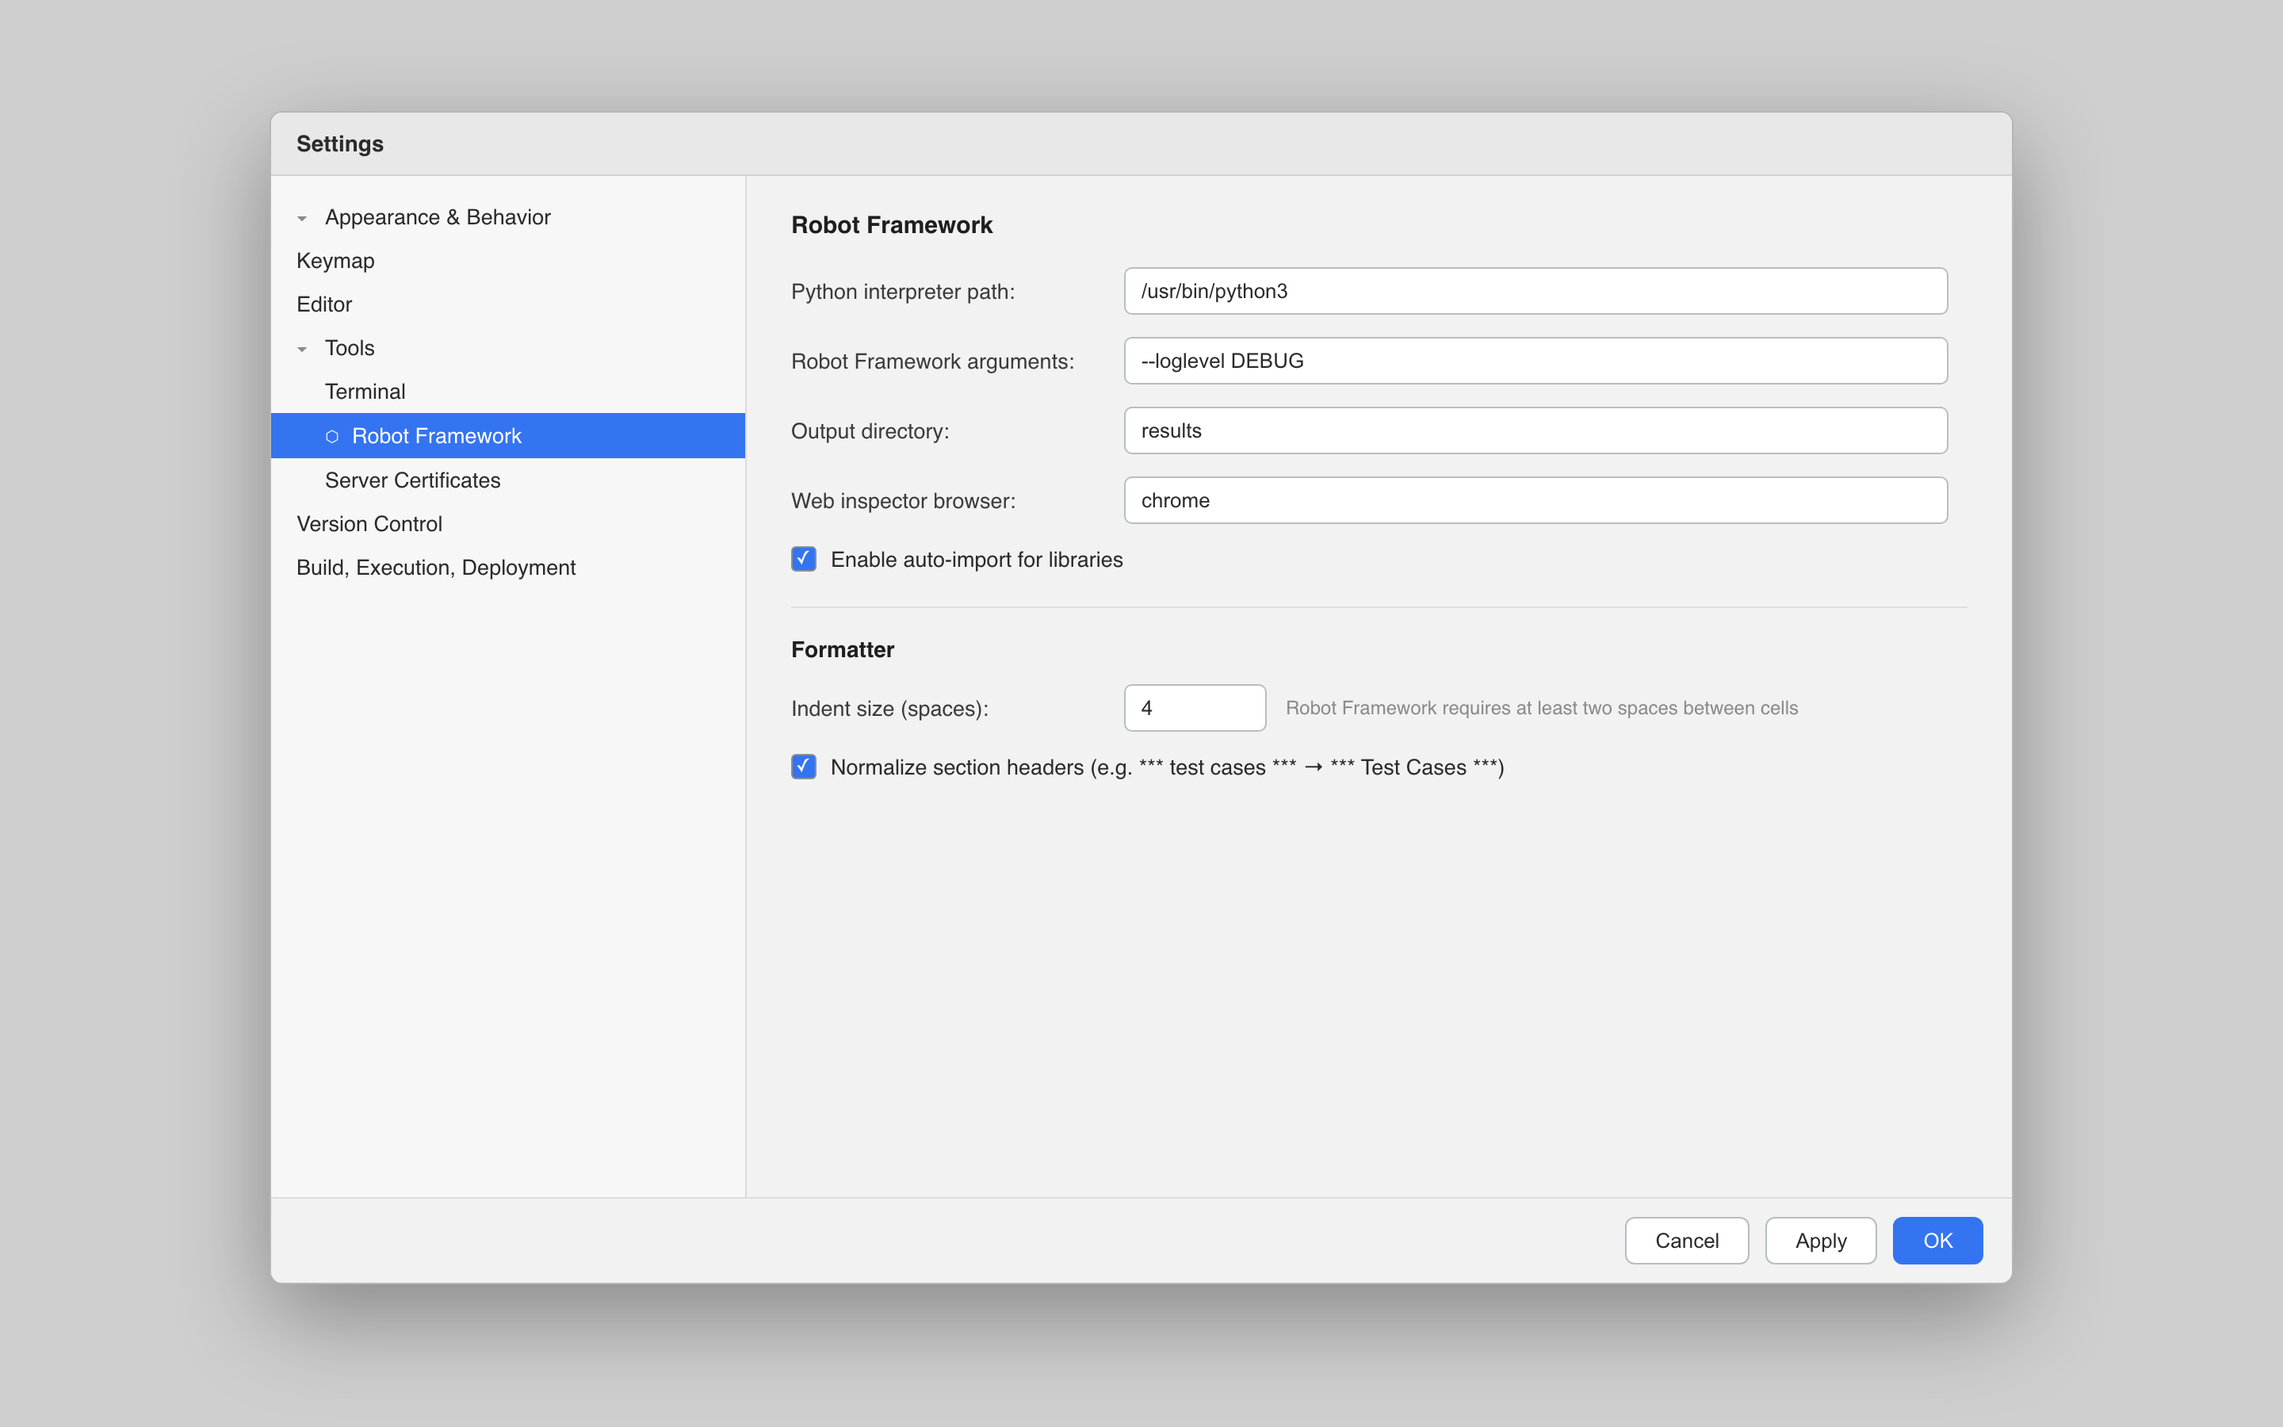
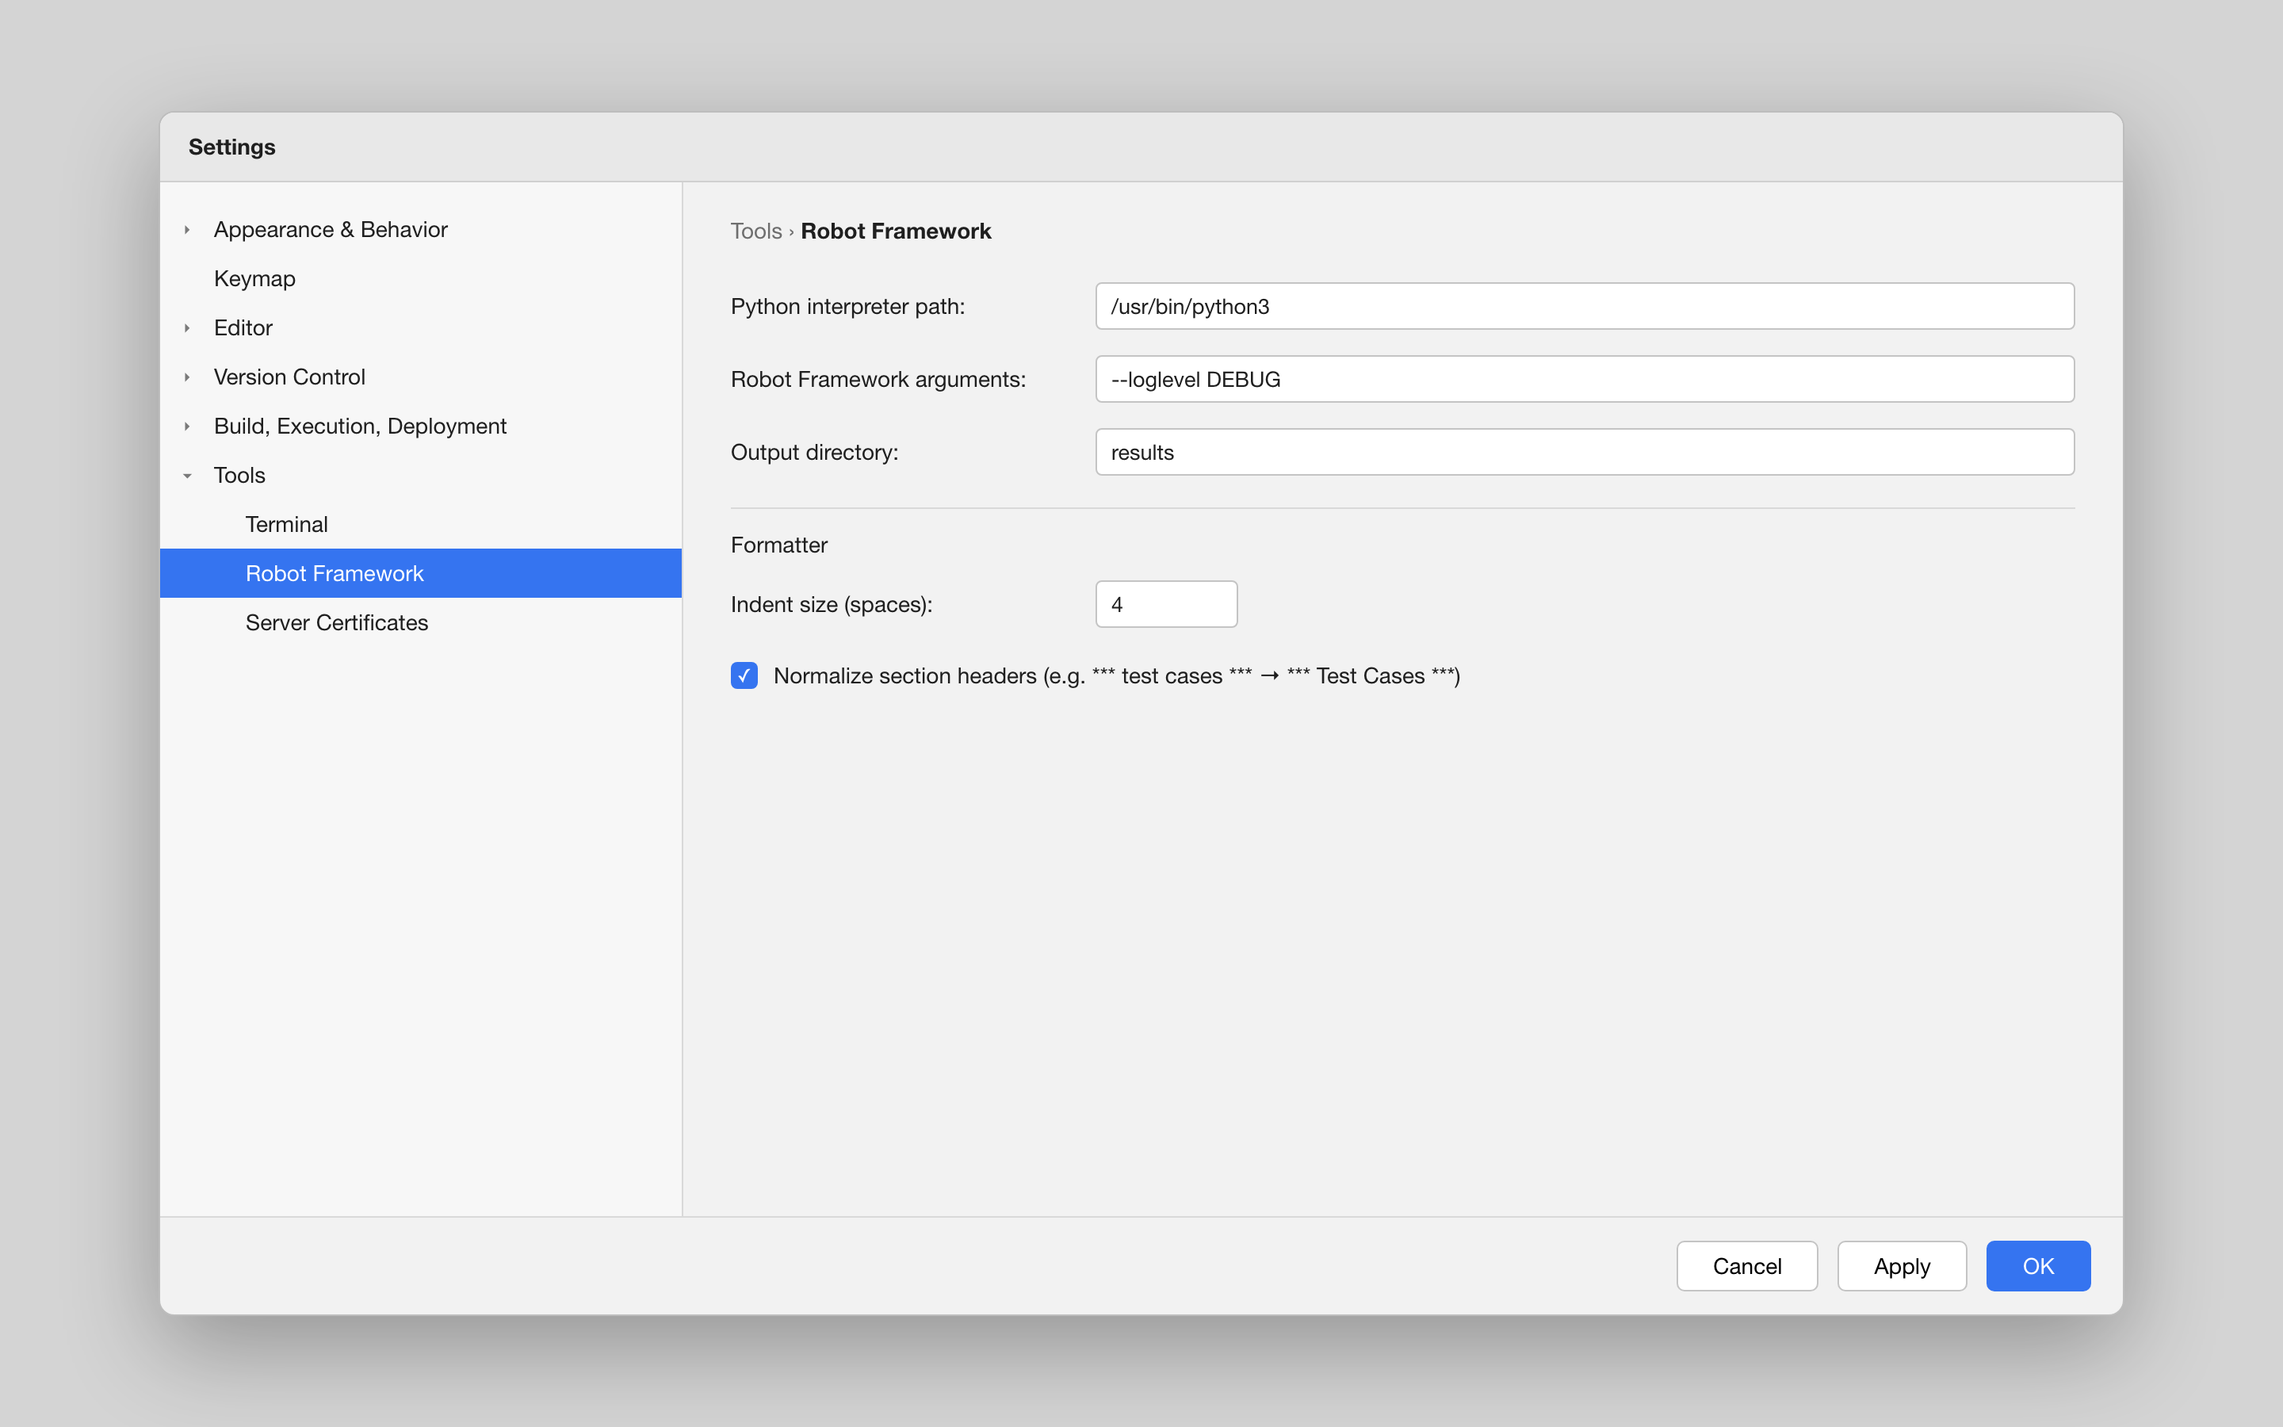
docs: re-render Marketplace screenshots for the current plugin
All six shots still carried the old "Robot Framework Professional" name in
the window title, and 04-settings.png showed the removed "Web inspector
browser" and "Enable auto-import for libraries" options.

- render.py now produces all six screenshots. 03 (formatter before/after)
  and 04 (settings) were hand-made before and had no source; they are now
  rendered from messy_suite.robot / messy_suite.formatted.robot and from a
  form that mirrors RobotSettingsConfigurable field for field.
- Window titles use the plugin's current name, "Robot Framework".
- SampleProjectTest asserts RobotFormatter turns messy_suite.robot into
  exactly messy_suite.formatted.robot, so screenshot 03 stays honest.
- Screenshot docs and MARKETPLACE_LISTING.md drop the old name.

Claude-Session: https://claude.ai/code/session_01CmS6C249PPokReMYfSYbuZ

diff --git a/docs/screenshots/src/render.py b/docs/screenshots/src/render.py
@@ -8,7 +8,7 @@ the inspection texts are copied verbatim from `analysis/RobotCodeAnalyzer`, so
 what the pictures show is what the plugin actually does.
 
 Usage:  python3 docs/screenshots/src/render.py
-Output: docs/screenshots/NN-name.png (2880x1800)
+Output: docs/screenshots/01..06-*.png (2880x1800)
 """
 
 import html
@@ -264,6 +264,144 @@ def shoot(name: str, document: str) -> None:
         print(f"  {name}  ({target.stat().st_size // 1024} KB)", flush=True)
 
 
+FORMAT_STYLE = """
+.split { flex: 1; display: flex; min-height: 0; }
+.pane { flex: 1; display: flex; flex-direction: column; min-width: 0; }
+.pane .tab .state { margin-left: 6px; font-size: 12px; }
+.pane .tab .state.before { color: #B35900; } .pane .tab .state.after { color: #2E7D32; }
+.pane .editor { padding-bottom: 60px; }
+.gutter-mid {
+  width: 88px; flex: none; background: #F7F8FA; border-left: 1px solid #E0E0E0;
+  border-right: 1px solid #E0E0E0; display: flex; flex-direction: column;
+  align-items: center; justify-content: center; gap: 6px; font-size: 11.5px; color: #6E6E6E;
+}
+.gutter-mid .arrow { color: #3574F0; font-size: 22px; }
+.tabchar { background: #FFF6D9; color: #B0A060; }
+.changed { background: #E6F4EA; }
+"""
+
+
+def render_formatter_pane(source: str, changed: set, show_tabs: bool) -> str:
+    rows = []
+    for number, line in enumerate(source.rstrip("\n").split("\n"), start=1):
+        if show_tabs and "\t" in line:
+            parts = []
+            for chunk in re.split(r"(\t)", line):
+                if chunk == "\t":
+                    parts.append('<span class="tabchar">&rarr;&nbsp;&nbsp;&nbsp;</span>')
+                elif chunk:
+                    parts.append("".join(
+                        f'<span class="{css}">{html.escape(t).replace(" ", "&nbsp;")}</span>'
+                        if css else html.escape(t).replace(" ", "&nbsp;")
+                        for t, css in tokenize(chunk, False)))
+            code = "".join(parts)
+        else:
+            code = render_code(line, {}).split('<span class="code">', 1)[1].rsplit("</span></div>", 1)[0]
+        if number in changed:
+            code = f'<span class="changed">{code}</span>'
+        rows.append(f'<div class="row"><span class="ln">{number}</span>'
+                    f'<span class="code">{code}</span></div>')
+    return "\n".join(rows)
+
+
+def formatter_page(before: str, after: str) -> str:
+    before_lines = before.rstrip("\n").split("\n")
+    after_lines = after.rstrip("\n").split("\n")
+    changed = {n for n, line in enumerate(after_lines, start=1)
+               if line and line not in before_lines}
+
+    def pane(label: str, state: str, body: str) -> str:
+        return (f'<div class="pane"><div class="tabbar"><div class="tab"><span class="fileicon"></span>'
+                f'{label}<span class="state {state}">&bull; {"before" if state == "before" else "formatted"}'
+                f'</span></div></div><div class="editor">{body}</div></div>')
+
+    return f"""<!doctype html><meta charset="utf-8"><style>{STYLE}{FORMAT_STYLE}</style>
+<div class="window">
+  <div class="titlebar"><span class="dot r"></span><span class="dot y"></span>
+    <span class="dot g"></span><span class="title">Format Robot File — Robot Framework</span></div>
+  <div class="split">
+    {pane("messy_suite.robot", "before", render_formatter_pane(before, set(), True))}
+    <div class="gutter-mid"><span class="arrow">&#9654;</span>Format<span>&#8963;&#8997;&#8679;R</span></div>
+    {pane("messy_suite.robot", "after", render_formatter_pane(after, changed, False))}
+  </div>
+  <div class="editor" style="flex:none;height:44px;padding:0">
+    <div class="caption"><b>Format Robot File</b> (<code>Ctrl+Alt+Shift+R</code>) — canonical section
+    headers, tabs expanded to the configured indent, trailing whitespace trimmed and blank-line runs
+    collapsed.</div>
+  </div>
+</div>"""
+
+
+SETTINGS_STYLE = """
+body { background: #D4D4D4; display: flex; align-items: center; justify-content: center; }
+.dialog {
+  width: 1240px; height: 760px; background: #F2F2F2; border-radius: 10px; overflow: hidden;
+  box-shadow: 0 20px 60px rgba(0,0,0,0.30); display: flex; flex-direction: column;
+  border: 1px solid #BDBDBD;
+}
+.dialog .head { height: 44px; display: flex; align-items: center; padding: 0 18px;
+  font-size: 14px; font-weight: 600; color: #1F1F1F; background: #E8E8E8; border-bottom: 1px solid #D0D0D0; }
+.dialog .body { flex: 1; display: flex; min-height: 0; }
+.tree { width: 330px; background: #F7F7F7; border-right: 1px solid #D9D9D9; padding: 14px 0; font-size: 14px; }
+.tree div { height: 31px; display: flex; align-items: center; padding-left: 34px; color: #1F1F1F; }
+.tree div.child { padding-left: 54px; }
+.tree div.sel { background: #3574F0; color: #FFFFFF; }
+.tree .caret { width: 20px; color: #7A7A7A; font-size: 10px; margin-left: -20px; }
+.form { flex: 1; padding: 22px 30px; font-size: 14px; color: #1F1F1F; }
+.crumb { font-size: 14px; color: #6E6E6E; margin-bottom: 22px; }
+.crumb b { color: #1F1F1F; font-weight: 600; }
+.field { display: flex; align-items: center; height: 34px; margin-bottom: 12px; }
+.field label { width: 230px; flex: none; }
+.input { flex: 1; height: 30px; border: 1px solid #C4C4C4; border-radius: 4px; background: #FFFFFF;
+  padding: 0 9px; display: flex; align-items: center; font-size: 13.5px; color: #1F1F1F; }
+.input.small { flex: none; width: 90px; }
+.sep { border-top: 1px solid #D9D9D9; margin: 18px 0 14px; }
+.plain { margin-bottom: 12px; }
+.check { display: flex; align-items: center; gap: 10px; height: 32px; }
+.box { width: 17px; height: 17px; border-radius: 4px; background: #3574F0; color: #FFF;
+  font-size: 12px; display: flex; align-items: center; justify-content: center; }
+.foot { height: 62px; border-top: 1px solid #D9D9D9; display: flex; align-items: center;
+  justify-content: flex-end; gap: 12px; padding: 0 20px; }
+.btn { height: 32px; padding: 0 22px; border-radius: 5px; border: 1px solid #C4C4C4; background: #FFF;
+  font-size: 14px; display: flex; align-items: center; }
+.btn.ok { background: #3574F0; border-color: #3574F0; color: #FFF; }
+"""
+
+
+def settings_page() -> str:
+    # Mirrors RobotSettingsConfigurable.createComponent() field for field, with the
+    # defaults from RobotSettings.State (empty paths, indent 4, normalize on).
+    return f"""<!doctype html><meta charset="utf-8"><style>{STYLE}{SETTINGS_STYLE}</style>
+<div class="dialog">
+  <div class="head">Settings</div>
+  <div class="body">
+    <div class="tree">
+      <div><span class="caret">&#9656;</span>Appearance &amp; Behavior</div>
+      <div>Keymap</div>
+      <div><span class="caret">&#9656;</span>Editor</div>
+      <div><span class="caret">&#9656;</span>Version Control</div>
+      <div><span class="caret">&#9656;</span>Build, Execution, Deployment</div>
+      <div><span class="caret">&#9662;</span>Tools</div>
+      <div class="child">Terminal</div>
+      <div class="child sel">Robot Framework</div>
+      <div class="child">Server Certificates</div>
+    </div>
+    <div class="form">
+      <div class="crumb">Tools &rsaquo; <b>Robot Framework</b></div>
+      <div class="field"><label>Python interpreter path:</label><div class="input">/usr/bin/python3</div></div>
+      <div class="field"><label>Robot Framework arguments:</label><div class="input">--loglevel DEBUG</div></div>
+      <div class="field"><label>Output directory:</label><div class="input">results</div></div>
+      <div class="sep"></div>
+      <div class="plain">Formatter</div>
+      <div class="field"><label>Indent size (spaces):</label><div class="input small">4</div></div>
+      <div class="check"><span class="box">&#10003;</span>Normalize section headers
+        (e.g. *** test cases *** &rarr; *** Test Cases ***)</div>
+    </div>
+  </div>
+  <div class="foot"><div class="btn">Cancel</div><div class="btn">Apply</div><div class="btn ok">OK</div></div>
+</div>"""
+
+
 def main() -> int:
     if not Path(CHROME).exists():
         print(f"Google Chrome not found at {CHROME}", file=sys.stderr)
@@ -287,7 +425,7 @@ def main() -> int:
       <div class="hint"><b>Alt+Enter</b> &nbsp;Show quick fixes</div>
     </div>"""
     shoot("01-code-inspections.png", page(
-        "rf74_migration.robot — Robot Framework Professional",
+        "rf74_migration.robot — Robot Framework",
         render_code(migration, marks),
         stripe([(row_top(4), "#E3B341"), (row_top(5), "#E3B341"), (row_top(9), "#E55765"),
                 (row_top(10), "#E55765"), (row_top(15), "#E3B341"), (row_top(16), "#E55765")]) + tooltip,
@@ -302,7 +440,7 @@ def main() -> int:
       <div class="item"><span class="bulb">&#9881;</span>Edit inspection profile setting<span class="kind">&nbsp;</span></div>
     </div>"""
     shoot("02-quick-fixes.png", page(
-        "rf74_migration.robot — Robot Framework Professional",
+        "rf74_migration.robot — Robot Framework",
         render_code(migration, {22: "warning"}),
         stripe([(row_top(22), "#E3B341")]) + menu,
         "<b>One-click migration</b> — <code>[Return]</code> becomes the RETURN statement "
@@ -311,7 +449,7 @@ def main() -> int:
 
     # 3 — the modern syntax the plugin now understands
     shoot("05-rf74-syntax.png", page(
-        "rf74_showcase.robot — Robot Framework Professional",
+        "rf74_showcase.robot — Robot Framework",
         render_code(showcase, {}),
         '<div class="popup" style="left:820px; top:250px; width:520px;">'
         '<h4>Understood out of the box</h4>'
@@ -338,11 +476,19 @@ def main() -> int:
         "@{BROWSERS: str}       chrome    firefox\n"
     )
     shoot("06-type-completion.png", page(
-        "rf74_showcase.robot — Robot Framework Professional",
+        "rf74_showcase.robot — Robot Framework",
         render_code(typing, {}),
         completion,
         "<b>Type completion</b> — typing a colon inside a variable offers the conversion "
         "types Robot Framework 7.3 understands, including the 7.4 Secret type."))
+
+    # 3 — formatter before/after; SampleProjectTest asserts the formatted fixture
+    messy = (SAMPLES / "messy_suite.robot").read_text(encoding="utf-8")
+    formatted = (SAMPLES / "messy_suite.formatted.robot").read_text(encoding="utf-8")
+    shoot("03-formatter-before-after.png", formatter_page(messy, formatted))
+
+    # 4 — Settings > Tools > Robot Framework
+    shoot("04-settings.png", settings_page())
 
     print("Done. Upload these under Edit Plugin -> Media on the Marketplace.")
     return 0

diff --git a/src/test/java/com/jakubjirak/robotframework/analysis/SampleProjectTest.java b/src/test/java/com/jakubjirak/robotframework/analysis/SampleProjectTest.java
@@ -56,4 +56,12 @@ class SampleProjectTest {
                 RobotFinding.Category.UNUSED_VARIABLE);
         assertEquals(expected, categoriesOf("rf74_migration.robot"));
     }
+
+    @Test
+    @DisplayName("the formatter turns messy_suite.robot into exactly the formatted fixture")
+    void formatterSampleMatchesScreenshot() throws IOException {
+        String messy = Files.readString(SAMPLES.resolve("messy_suite.robot"), StandardCharsets.UTF_8);
+        String expected = Files.readString(SAMPLES.resolve("messy_suite.formatted.robot"), StandardCharsets.UTF_8);
+        assertEquals(expected, new RobotFormatter().format(messy));
+    }
 }

diff --git a/MARKETPLACE_LISTING.md b/MARKETPLACE_LISTING.md
@@ -1,4 +1,4 @@
-# JetBrains Marketplace Listing — Robot Framework Professional
+# JetBrains Marketplace Listing — Robot Framework
 
 ---
 
@@ -6,7 +6,7 @@
 
 | Field       | Value                                  |
 |-------------|----------------------------------------|
-| **Name**    | Robot Framework Professional           |
+| **Name**    | Robot Framework           |
 | **Plugin ID** | `com.jakubjirak.robotframework`     |
 | **Version** | 2026.6.2                               |
 | **Category** | Test Automation / Languages & Frameworks |
@@ -26,7 +26,7 @@
 
 **The Problem:** Robot Framework development in JetBrains IDEs lacks proper language support. Developers struggle with plain-text editing, no navigation, no completion, and no way to run a single test without leaving the IDE.
 
-**The Solution:** Robot Framework Professional brings full language intelligence to your favorite JetBrains IDE — Robot Framework 7.4 syntax, smart completion, navigation, inspections that migrate deprecated syntax for you, a formatter, and test execution straight from the editor gutter.
+**The Solution:** Robot Framework brings full language intelligence to your favorite JetBrains IDE — Robot Framework 7.4 syntax, smart completion, navigation, inspections that migrate deprecated syntax for you, a formatter, and test execution straight from the editor gutter.
 
 ---
 
@@ -60,7 +60,7 @@
 
 ### 💰 Pricing
 
-Robot Framework Professional is **completely free and open source** (Apache License 2.0).
+Robot Framework is **completely free and open source** (Apache License 2.0).
 Every feature is available to everyone — no license or subscription needed.
 
 ---

diff --git a/docs/screenshots/SCREENSHOTS.md b/docs/screenshots/SCREENSHOTS.md
@@ -1,6 +1,6 @@
 # Screenshots & Media Guide
 
-Marketplace listing assets for the **Robot Framework Professional** plugin.
+Marketplace listing assets for the **Robot Framework** plugin.
 
 All shots are built from the sample suites in [`sample-project/`](sample-project),
 which are crafted so the advertised features light up without any extra setup.

diff --git a/docs/screenshots/README.md b/docs/screenshots/README.md
@@ -1,6 +1,6 @@
 # Screenshots
 
-Marketplace media for **Robot Framework Professional**.
+Marketplace media for the **Robot Framework** plugin.
 
 - **[SCREENSHOTS.md](SCREENSHOTS.md)** — capture environment, per-shot guide, and asset checklist.
 - **[sample-project/](sample-project)** — ready-to-open files that trigger every feature:
